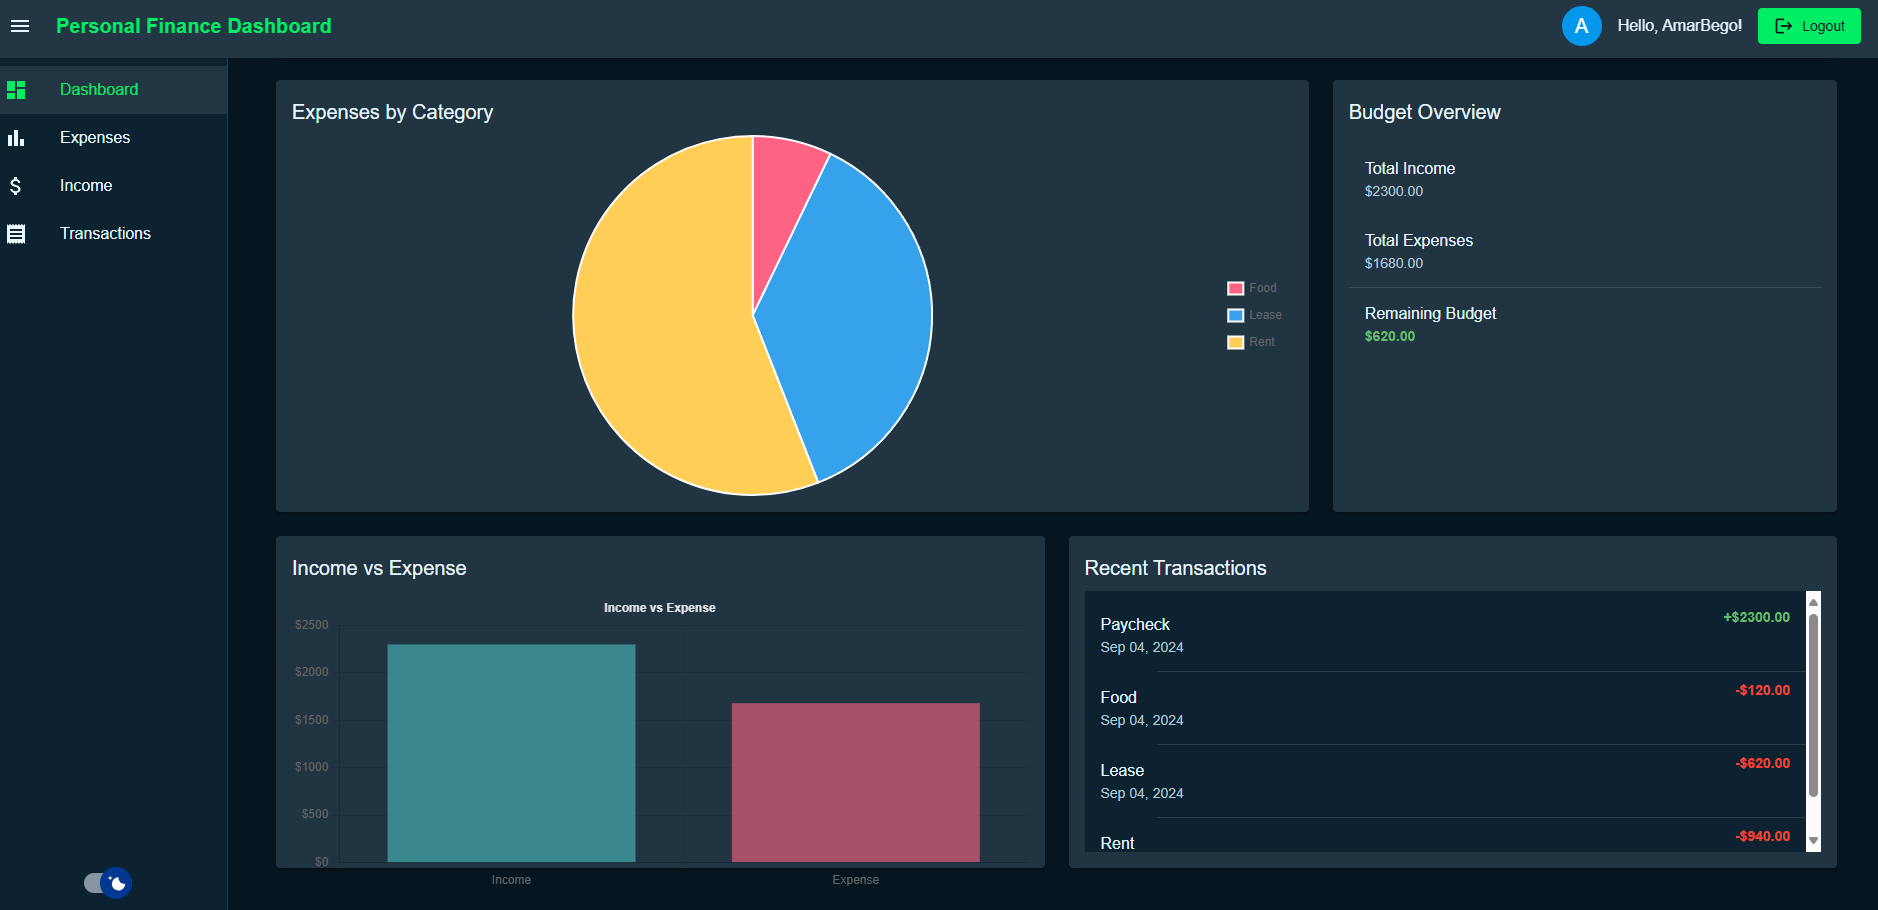
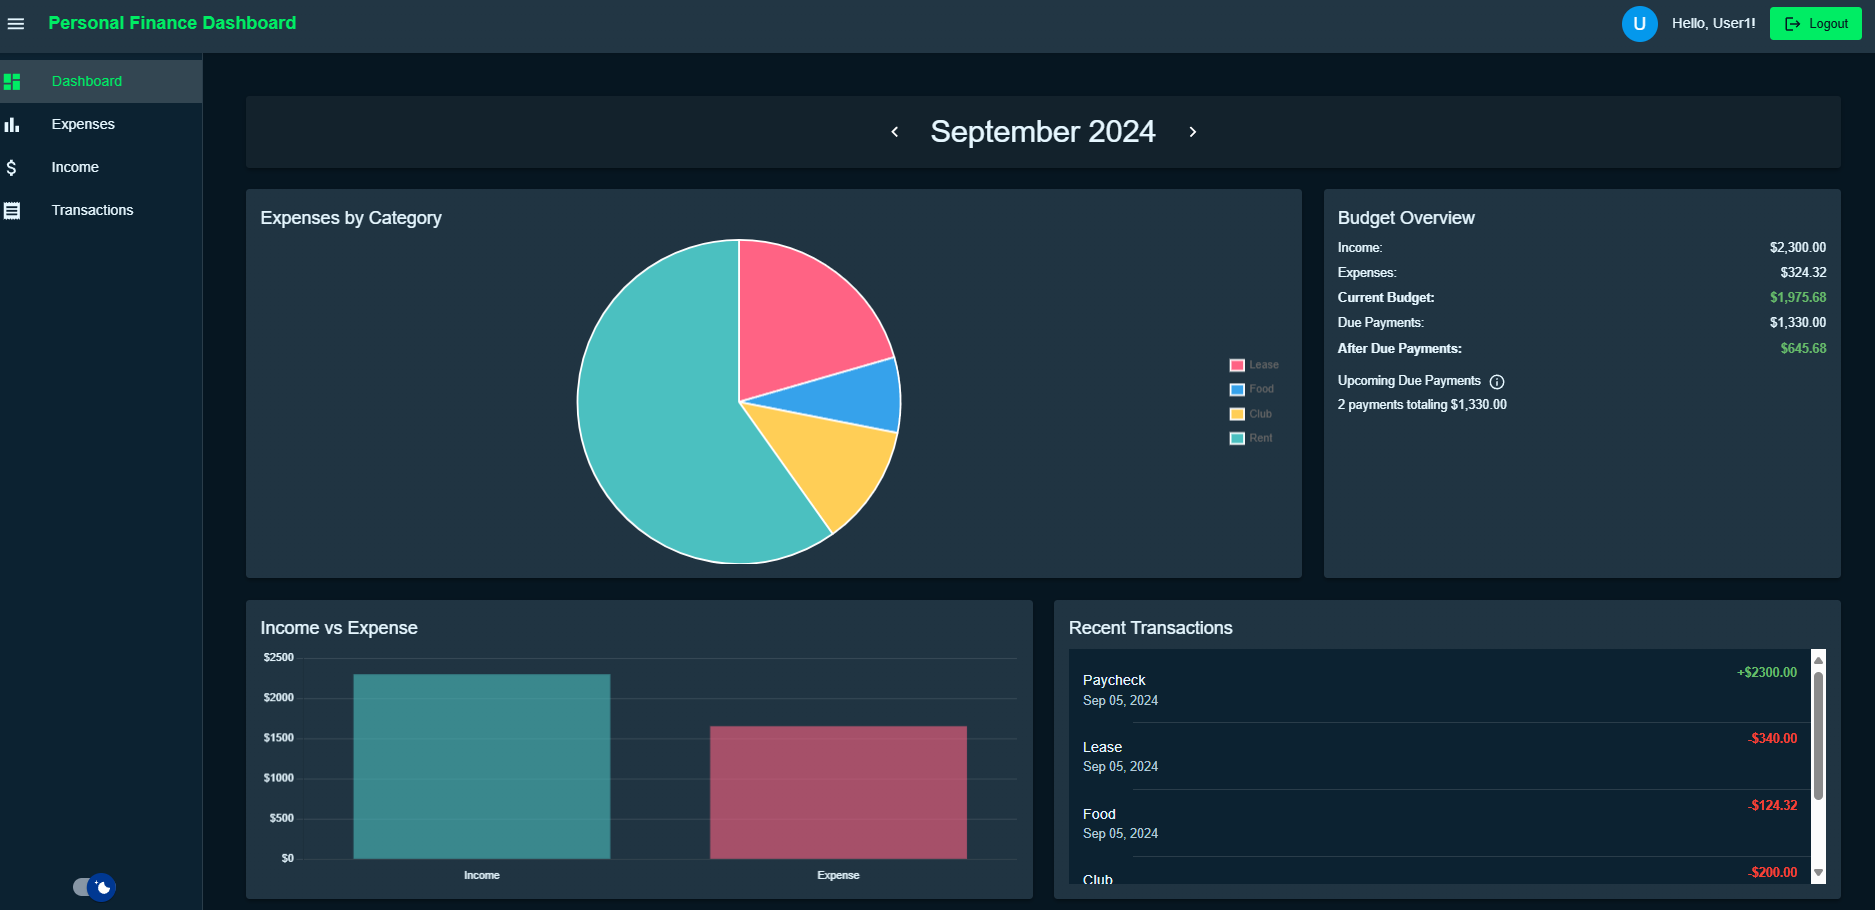
design fixes

Changed region(s): [[0.0, 0.0, 1.0, 1.0], [0.0309, 0.9538, 0.0928, 1.0]]

diff --git a/personal-finance-dashboard/src/components/AddTransactions.js b/personal-finance-dashboard/src/components/AddTransactions.js
@@ -1,8 +1,13 @@
 import React, { useState, useEffect } from 'react';
-import { TextField, Button, Grid, MenuItem, FormControlLabel, Checkbox } from '@mui/material';
+import { 
+  Box, TextField, Button, Select, MenuItem, InputAdornment,
+  Paper, Typography, IconButton, Collapse
+} from '@mui/material';
+import { Add, Remove, AttachMoney, Category, Event, EventAvailable } from '@mui/icons-material';
 import { format, parseISO } from 'date-fns';
 
-const AddTransaction = ({ onAddTransaction, currentMonth }) => {
+const AddTransaction = ({ onAddTransaction, currentMonth, user }) => {
+  const [isExpanded, setIsExpanded] = useState(false);
   const [transaction, setTransaction] = useState({
     date: format(new Date(), 'yyyy-MM-dd'),
     type: 'expense',
@@ -22,7 +27,7 @@ const AddTransaction = ({ onAddTransaction, currentMonth }) => {
   }, [currentMonth]);
 
   const handleChange = (e) => {
-    let value = e.target.value;
+    let value = e.target.type === 'checkbox' ? e.target.checked : e.target.value;
     if (e.target.name === 'date') {
       const [inputYear, inputMonth] = value.split('-');
       if (`${inputYear}-${inputMonth}` !== currentMonth) {
@@ -61,6 +66,7 @@ const AddTransaction = ({ onAddTransaction, currentMonth }) => {
           isPaid: false,
           dueDate: '',
         });
+        setIsExpanded(false);
       } else {
         console.error('Failed to add transaction');
       }
@@ -69,81 +75,123 @@ const AddTransaction = ({ onAddTransaction, currentMonth }) => {
     }
   };
   return (
-    <form onSubmit={handleSubmit}>
-      <Grid container spacing={2}>
-        <Grid item xs={12} sm={6}>
+    <Paper 
+      elevation={3} 
+      sx={{ 
+        mb: 3, 
+        overflow: 'hidden', 
+        background: 'rgba(255, 255, 255, 0.05)',
+        backdropFilter: 'blur(10px)',
+      }}
+    >
+      <Box 
+        onClick={() => setIsExpanded(!isExpanded)}
+        sx={{ 
+          p: 2, 
+          display: 'flex', 
+          alignItems: 'center', 
+          justifyContent: 'space-between', 
+          cursor: 'pointer',
+          '&:hover': {
+            bgcolor: 'rgba(255, 255, 255, 0.1)',
+          },
+          transition: 'background-color 0.2s',
+        }}
+      >
+        <Typography variant="h6">Add New Transaction</Typography>
+        <IconButton>
+          {isExpanded ? <Remove /> : <Add />}
+        </IconButton>
+      </Box>
+      <Collapse in={isExpanded}>
+        <Box component="form" onSubmit={handleSubmit} sx={{ p: 2, display: 'grid', gap: 2, gridTemplateColumns: 'repeat(2, 1fr)' }}>
           <TextField
-            fullWidth
+            name="date"
             label="Date"
             type="date"
-            name="date"
             value={transaction.date}
             onChange={handleChange}
-            InputLabelProps={{ shrink: true }}
+            InputProps={{
+              startAdornment: (
+                <InputAdornment position="start">
+                  <Event />
+                </InputAdornment>
+              ),
+            }}
             inputProps={{
               min: `${currentMonth}-01`,
               max: `${currentMonth}-31`
             }}
+            fullWidth
             required
           />
-        </Grid>
-        <Grid item xs={12} sm={6}>
-          <TextField
-            fullWidth
-            select
-            label="Type"
+          <Select
             name="type"
             value={transaction.type}
             onChange={handleChange}
-            required
-          >
-            <MenuItem value="income">Income</MenuItem>
-            <MenuItem value="expense">Expense</MenuItem>
-          </TextField>
-        </Grid>
-        <Grid item xs={12} sm={6}>
-          <TextField
             fullWidth
-            label="Category"
+            required
+            startAdornment={<InputAdornment position="start"><Category /></InputAdornment>}
+          >
+            <MenuItem value="expense">Expense</MenuItem>
+            <MenuItem value="income">Income</MenuItem>
+          </Select>
+          <TextField
             name="category"
+            label="Category"
             value={transaction.category}
             onChange={handleChange}
+            fullWidth
             required
           />
-        </Grid>
-        <Grid item xs={12} sm={6}>
           <TextField
-            fullWidth
+            name="amount"
             label="Amount"
             type="number"
-            name="amount"
             value={transaction.amount}
             onChange={handleChange}
+            InputProps={{
+              startAdornment: (
+                <InputAdornment position="start">
+                  <AttachMoney />
+                </InputAdornment>
+              ),
+            }}
+            fullWidth
             required
           />
-        </Grid>
-        {transaction.type === 'expense' && (
-          <Grid item xs={12} sm={6}>
+          {transaction.type === 'expense' && (
             <TextField
-              fullWidth
-              label="Due Date (leave blank if none)"
-              type="date"
               name="dueDate"
+              label="Due Date (optional)"
+              type="date"
               value={transaction.dueDate}
               onChange={handleChange}
-              InputLabelProps={{ shrink: true }}
+              InputProps={{
+                startAdornment: (
+                  <InputAdornment position="start">
+                    <EventAvailable />
+                  </InputAdornment>
+                ),
+              }}
+              fullWidth
             />
-          </Grid>
-        )}
-        <Grid item xs={12}>
-          <Button type="submit" variant="contained" color="primary">
+          )}
+          <Button 
+            type="submit" 
+            variant="contained" 
+            fullWidth 
+            sx={{ 
+              gridColumn: '1 / -1', 
+              mt: 2,
+            }}
+          >
             Add Transaction
           </Button>
-        </Grid>
-      </Grid>
-    </form>
+        </Box>
+      </Collapse>
+    </Paper>
   );
 };
-
 
 export default AddTransaction;

diff --git a/personal-finance-dashboard/src/pages/Transactions.js b/personal-finance-dashboard/src/pages/Transactions.js
@@ -15,6 +15,8 @@ const Transactions = ({ userTransactions, handleAddTransaction, currentMonth, us
   const [editingId, setEditingId] = useState(null);
   const [editedTransaction, setEditedTransaction] = useState({});
   const [isEditDialogOpen, setIsEditDialogOpen] = useState(false);
+  const [isDeleteDialogOpen, setIsDeleteDialogOpen] = useState(false);
+  const [transactionToDelete, setTransactionToDelete] = useState(null);
 
   const sortedTransactions = useMemo(() => {
     return [...userTransactions].sort((a, b) => {
@@ -76,14 +78,6 @@ const Transactions = ({ userTransactions, handleAddTransaction, currentMonth, us
     }
   };
 
-  const handleDelete = async (transactionId) => {
-    try {
-      await deleteTransaction(transactionId);
-    } catch (error) {
-      console.error('Error deleting transaction:', error);
-    }
-  };
-
   const formatCurrency = (amount) => {
     return new Intl.NumberFormat('en-US', { style: 'currency', currency: 'USD' }).format(amount);
   };
@@ -92,9 +86,53 @@ const Transactions = ({ userTransactions, handleAddTransaction, currentMonth, us
     return transaction.type === 'expense' && transaction.dueDate && !transaction.isPaid;
   };
 
+  const onAddTransaction = async (newTransaction) => {
+    try {
+      await handleAddTransaction(newTransaction);
+      await fetchTransactions();
+    } catch (error) {
+      console.error('Error adding new transaction:', error);
+    }
+  };
+
+  const handleDelete = async (transactionId) => {
+    try {
+      await deleteTransaction(transactionId);
+    } catch (error) {
+      console.error('Error deleting transaction:', error);
+    }
+  };
+
+  const handleDeleteClick = (transaction) => {
+    setTransactionToDelete(transaction);
+    setIsDeleteDialogOpen(true);
+  };
+
+  const handleDeleteConfirm = async () => {
+    if (transactionToDelete) {
+      try {
+        await deleteTransaction(transactionToDelete._id);
+        await fetchTransactions();
+      } catch (error) {
+        console.error('Error deleting transaction:', error);
+      }
+    }
+    setIsDeleteDialogOpen(false);
+    setTransactionToDelete(null);
+  };
+
+  const handleDeleteCancel = () => {
+    setIsDeleteDialogOpen(false);
+    setTransactionToDelete(null);
+  };
+
   return (
     <Paper elevation={3} sx={{ p: 2 }}>
-      <AddTransaction handleAddTransaction={handleAddTransaction} currentMonth={currentMonth} user={user} />
+      <AddTransaction 
+        onAddTransaction={onAddTransaction} 
+        currentMonth={currentMonth} 
+        user={user} 
+      />
       <List>
         {sortedTransactions.map((transaction) => (
           <ListItem 
@@ -157,14 +195,14 @@ const Transactions = ({ userTransactions, handleAddTransaction, currentMonth, us
               <Button variant="outlined" size="small" onClick={() => handleEdit(transaction)}>
                 Edit
               </Button>
-              <IconButton onClick={() => handleDelete(transaction._id)} color="error" size="small">
+              <IconButton onClick={() => handleDeleteClick(transaction)} color="error" size="small">
                 <DeleteIcon />
               </IconButton>
             </Box>
           </ListItem>
         ))}
       </List>
-
+  
       <Dialog 
         open={isEditDialogOpen} 
         onClose={handleCancel}
@@ -241,6 +279,26 @@ const Transactions = ({ userTransactions, handleAddTransaction, currentMonth, us
         <DialogActions>
           <Button onClick={handleCancel}>Cancel</Button>
           <Button onClick={handleSave} variant="contained">Save</Button>
+        </DialogActions>
+      </Dialog>
+  
+      <Dialog
+        open={isDeleteDialogOpen}
+        onClose={handleDeleteCancel}
+        aria-labelledby="delete-dialog-title"
+        aria-describedby="delete-dialog-description"
+      >
+        <DialogTitle id="delete-dialog-title">Confirm Deletion</DialogTitle>
+        <DialogContent>
+          <Typography id="delete-dialog-description">
+            Are you sure you want to delete this transaction? This action cannot be undone.
+          </Typography>
+        </DialogContent>
+        <DialogActions>
+          <Button onClick={handleDeleteCancel}>Cancel</Button>
+          <Button onClick={handleDeleteConfirm} color="error" autoFocus>
+            Delete
+          </Button>
         </DialogActions>
       </Dialog>
     </Paper>

diff --git a/README.md b/README.md
@@ -11,14 +11,20 @@ This Personal Finance Dashboard allows users to track their income and expenses,
 ## Key Features
 
 - User authentication (register, login, logout)
-- Add, edit, and delete transactions
+- Add, edit, and delete transactions with confirmation
 - Categorize transactions as income or expense
-- View recent transactions
+- View recent transactions with due date highlighting
 - Visualize expenses by category (pie chart)
 - Compare income vs expenses (bar chart)
-- Monthly budget overview
+- Monthly budget overview with due payments calculation
 - Responsive design for mobile and desktop
 - **Light and Dark Mode**: Easily switch between light and dark themes for comfortable viewing in any environment
+- **Transaction Management**:
+  - Add new transactions with an intuitive, collapsible form
+  - Edit existing transactions with a modal dialog
+  - Delete transactions with a confirmation dialog to prevent accidental deletions
+- **Due Payments**: Highlight and track expenses with due dates
+- **Paid Status**: Mark expenses as paid and track payment status
 
 ## Project Structure
 
